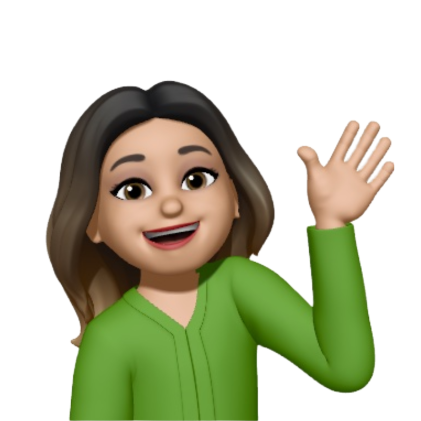
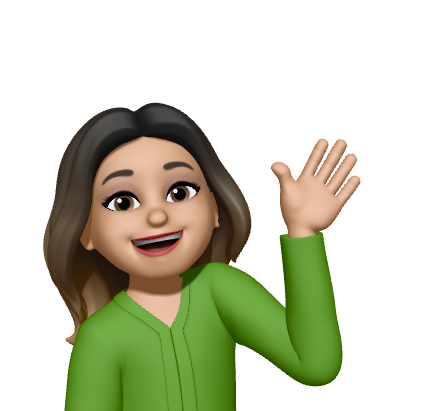
responsive

diff --git a/src/components/Certs/Certs.jsx b/src/components/Certs/Certs.jsx
@@ -6,8 +6,9 @@ import cert2 from "../../img/4.png";
 const Intro = () => {
   return (
     <div className="c">
+      <div className="c-warpper">
       <h2 className="c-intro">My Bootcamp Certifications</h2>
-      <div>
+      <div className="certs">
         <div className="c-item">
           <div className="c-left">
             <h2 className="c-item">Code First Girls</h2>
@@ -19,10 +20,9 @@ const Intro = () => {
             <img className="c-img" src={cert2} alt=""/>
             <p className="c-item">FullStack Web Development</p>
           </div>
-
-         
         </div>
       </div>
+    </div>
     </div>
   );
 };

diff --git a/src/components/Job/job.css b/src/components/Job/job.css
@@ -34,3 +34,31 @@
 .moti a {
    font-size: larger;
 }
+
+
+@media screen and (max-width: 480px) {
+    .j {
+        display: flex;
+        flex-direction: column;
+        width: 100%;
+        height: 100%;
+     
+    }
+
+    .j-left-wrapper {
+    
+        padding: 10px;
+        align-items: center;
+        justify-content: center;
+        text-align: center;
+        height: 100%;
+      }
+      .j-right-wrapper {
+    
+        padding: 10px;
+        align-items: center;
+        justify-content: center;
+        text-align: center;
+        height: 100%;
+      }
+} 

diff --git a/src/components/Intro/Intro.jsx b/src/components/Intro/Intro.jsx
@@ -27,7 +27,7 @@ const Intro = () => {
               <a href="https://www.github.com/mehtapparkinson" target="_blank" rel="noreferrer">GitHub</a>
             </button>
             <button>
-              <a href="https://drive.google.com/file/d/1PcZP9evv0dKmkZi1AtGTaw39E2EjCuqd/view?usp=share_link" target="_blank" rel="noreferrer">My CV</a>
+              <a href="https://drive.google.com/file/d/1Jgfub9TWyd7mSape2H2w89JPVC0hseMa/view?usp=share_link" target="_blank" rel="noreferrer">My CV</a>
             </button>
             <br />
             <br />

diff --git a/src/components/productList/productList.css b/src/components/productList/productList.css
@@ -50,3 +50,36 @@ p {
 .p-intro {
   margin-bottom: 50px;
 }
+
+
+@media screen and (max-width: 480px) {
+  .pl {
+    padding: 10px;
+    flex-direction: column;
+    width: 100%;
+  }
+
+  .pl-texts {
+    width: 100%;
+  }
+
+  .pl-desc {
+    display: none;
+  }
+
+.pl-list {
+  width: 100%;
+  display: flex;
+  flex-wrap: wrap;
+  justify-content: space-between;
+}
+.p-intro {
+}
+
+.pl-list {
+  width: 100%;
+  display: flex;
+  flex-wrap: wrap;
+  justify-content: space-between;
+}
+}

diff --git a/src/components/Certs/certs.css b/src/components/Certs/certs.css
@@ -41,3 +41,33 @@
   justify-content: space-around;
 
   }
+
+
+@media screen and (max-width:480px) {
+  .c {
+    flex-direction: column;
+    text-align: center;
+    margin-top: 120px;
+
+    
+  }
+  .c-item{
+    flex-direction: column;
+    text-align: center;
+    height: 100%;
+    margin-top: 50px;
+  }
+
+  .c-left {
+    width: 100%;
+  }
+
+
+  .c-right{
+    padding: 20px;
+  }
+  .c-img {
+    max-width: 300px;
+    height: auto;
+  }
+}

diff --git a/src/components/about/about.css b/src/components/about/about.css
@@ -34,14 +34,14 @@
 }
 
 .a-img {
-  width: 100%;
-  height: 100%;
+  max-width: 100%;
+  max-height: 100%;
   object-fit: cover;
 }
 
 .a-award-img {
-  width: 120px;
-  height: 120px;
+  max-width: 120px;
+  max-height: 120px;
   border-radius: 20px;
 }
 
@@ -95,5 +95,9 @@
 
     .a-right{
       padding: 20px;
+    }
+    .a-img {
+      width: 100%;
+      height: 100%;
     }
 }

diff --git a/src/components/about/About.jsx b/src/components/about/About.jsx
@@ -7,7 +7,7 @@ const About = () => {
       <div className="a-left">
         <div className="a-card bg"></div>
         <div className="a-card">
-          <img src={Memoji2} alt="memoji" />
+          <img className="a-img" src={Memoji2} alt="memoji" />
         </div>
       </div>
       <div className="a-right">

diff --git a/src/components/Intro/Intro.css b/src/components/Intro/Intro.css
@@ -1,6 +1,8 @@
 .i {
     display: flex;
     height: 100vh;
+    height: 100vh;
+
   }
   
   .i-left {
